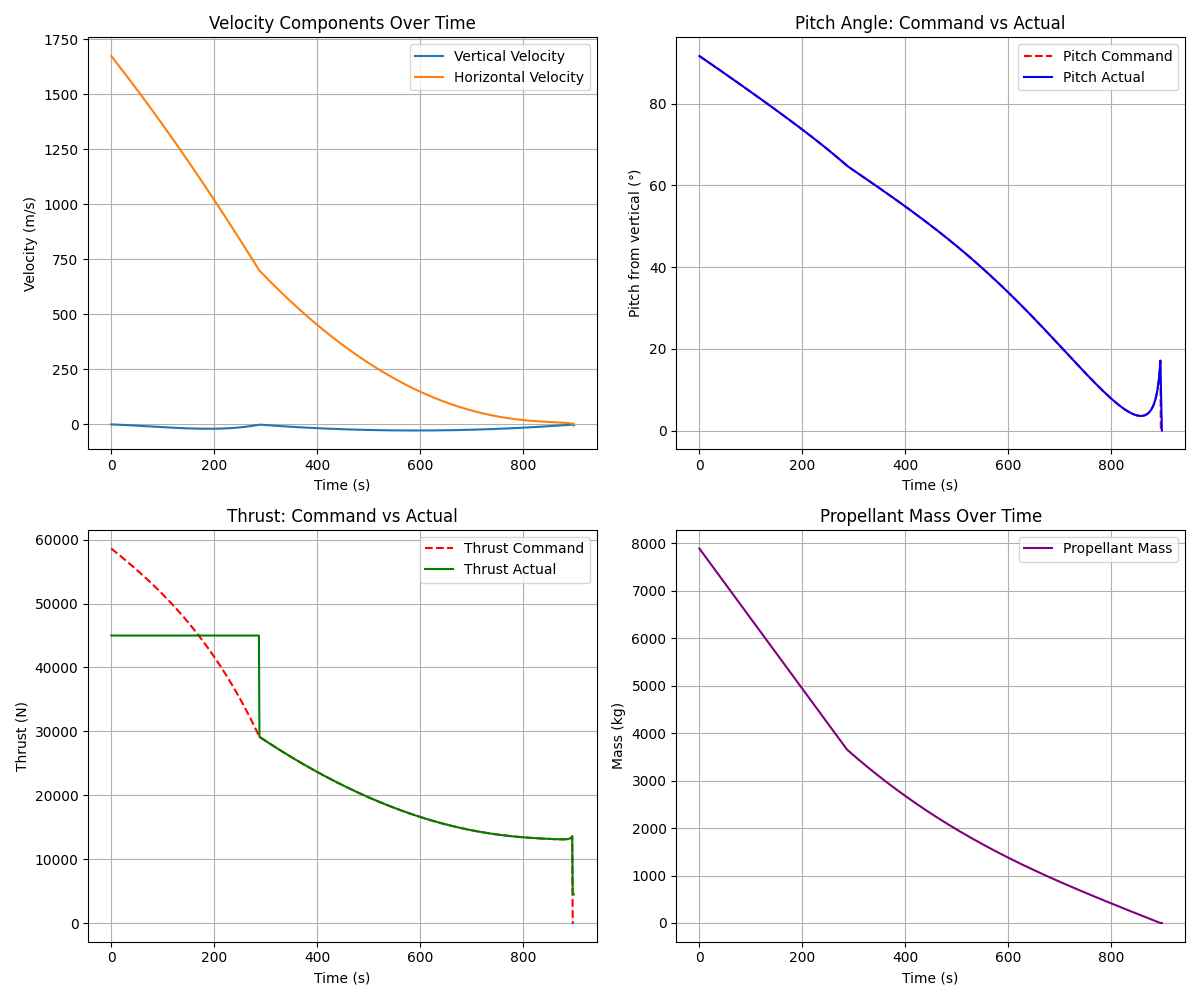
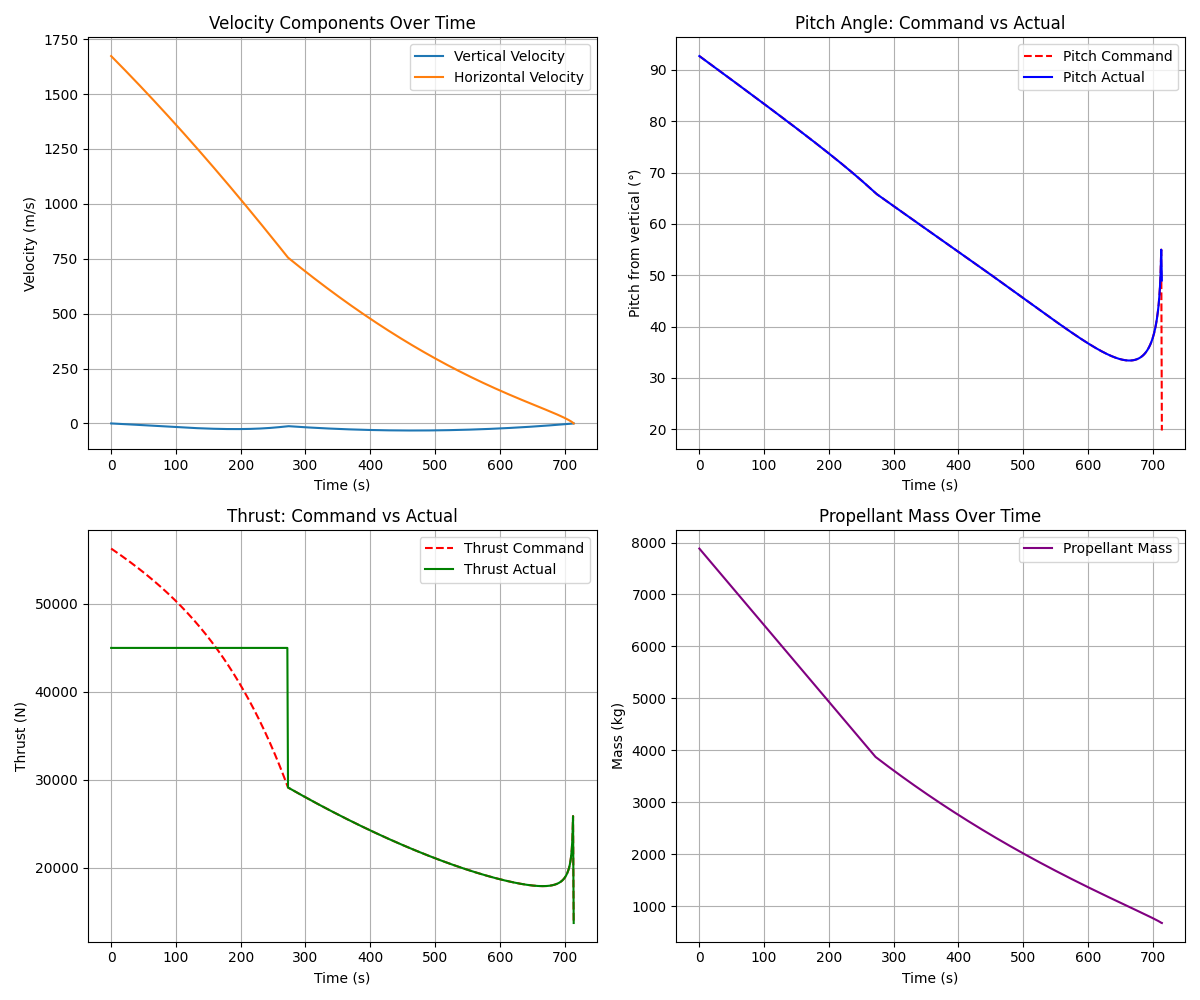
Updated t_max to fit actual timeline.

diff --git a/main.py b/main.py
@@ -35,7 +35,7 @@ alpha_cmd_hist = []
 alpha_ctrl_hist = []
 T_cmd_hist = []
 T_ctrl_hist = []
-t_max = 900
+t_max = 714
 
 # --- Main Loop ---
 while landing:

diff --git a/data/MISSION_LOG.md b/data/MISSION_LOG.md
@@ -2,9 +2,9 @@
 
 | Metric | Value |
 | :--- | :--- |
-| **Time of Flight** | `899.00 s` |
-| **Impact Velocity** | `5.72 m/s` |
-| **Delta-V** | `2259.12 m/s` |
-| **Vertical Vel** | `-5.72 m/s` |
-| **Horizontal Vel** | `0.00 m/s` |
-| **Remaining Fuel** | `-0.00 kg` |
+| **Time of Flight** | `714.00 s` |
+| **Impact Velocity** | `0.01 m/s` |
+| **Delta-V** | `1985.87 m/s` |
+| **Vertical Vel** | `0.01 m/s` |
+| **Horizontal Vel** | `-0.00 m/s` |
+| **Remaining Fuel** | `674.71 kg` |
